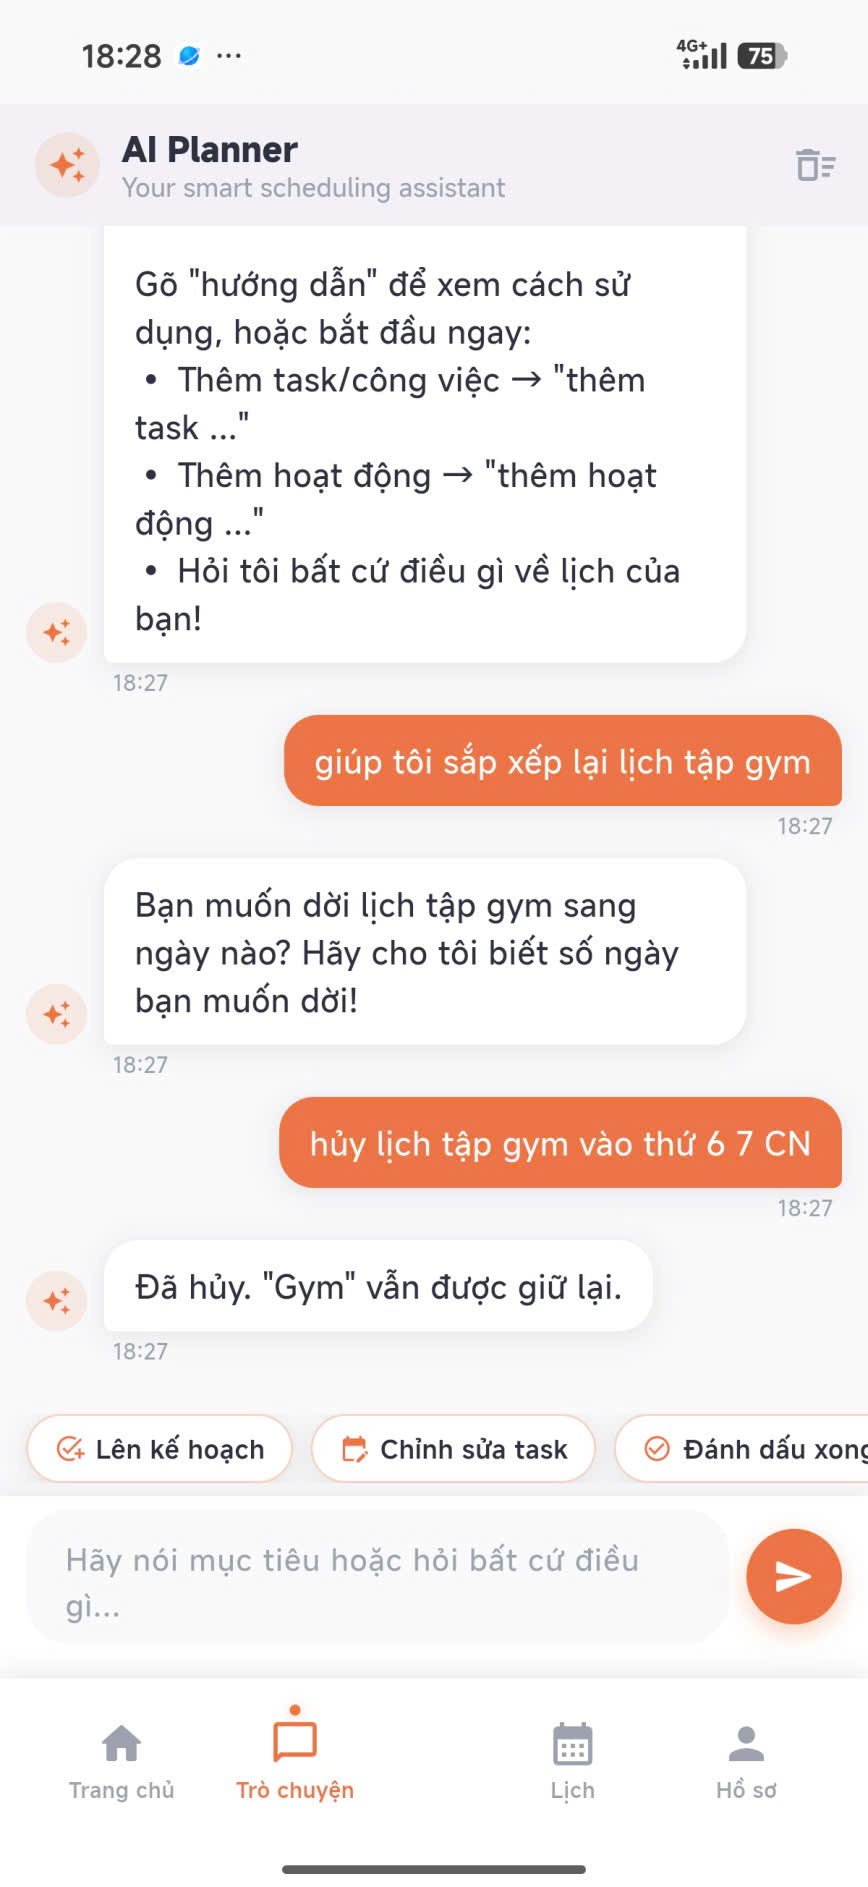
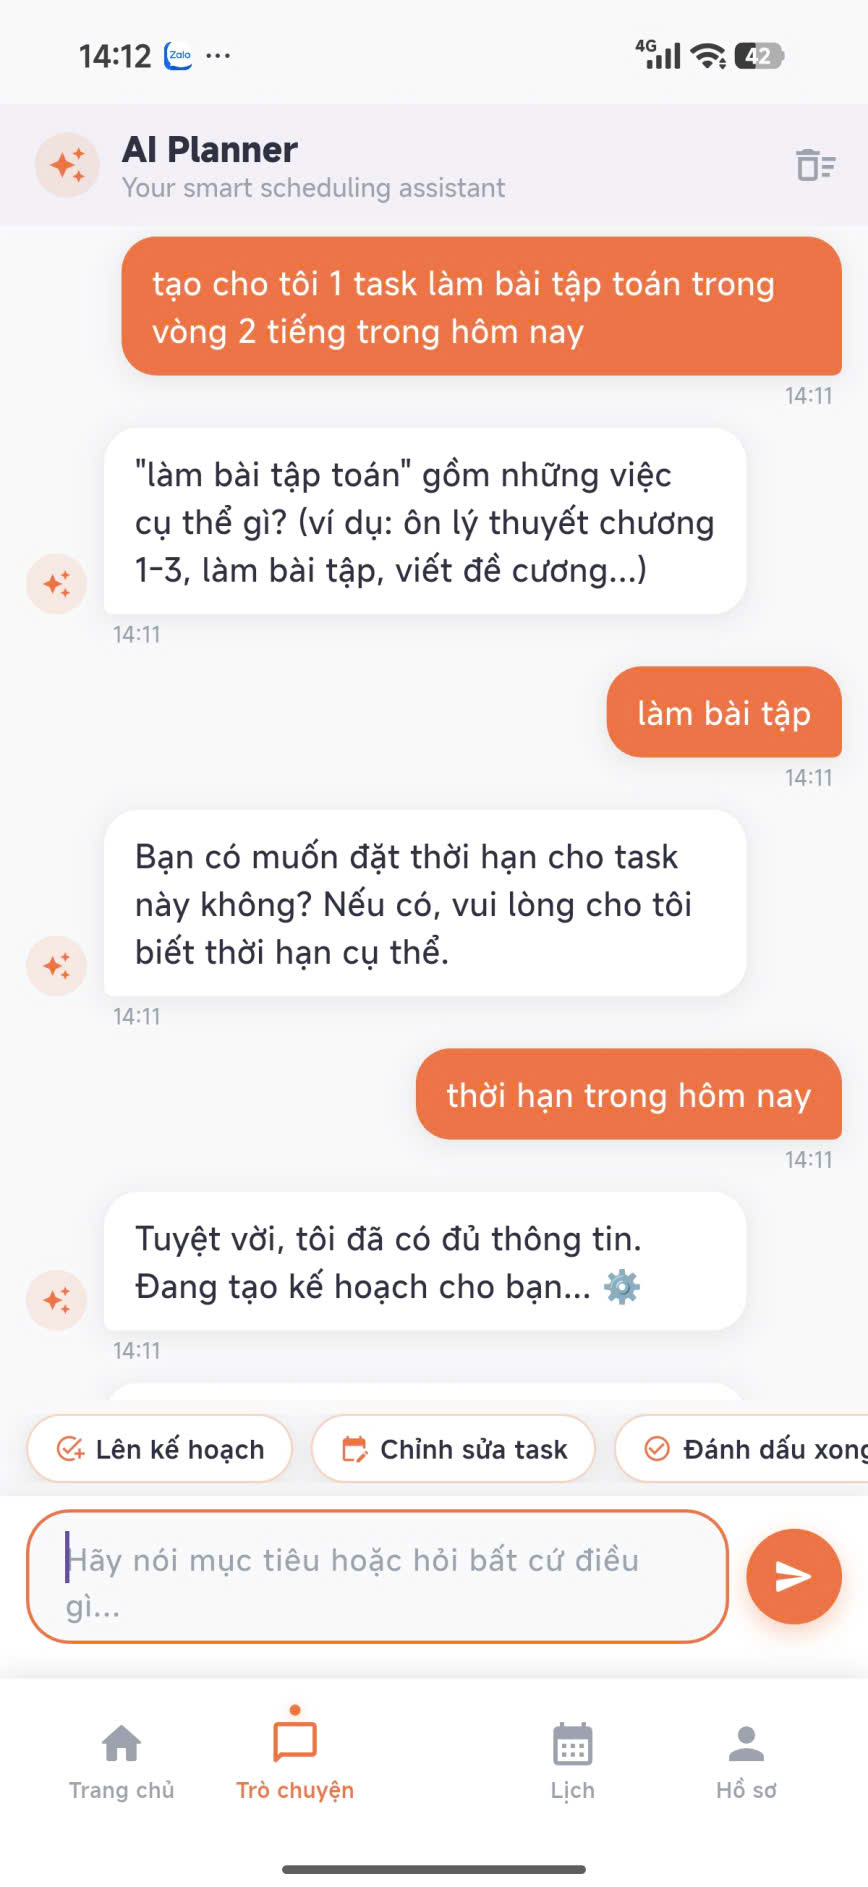
feat: wire download buttons to Google Drive APK link
- index.html: add shared APK_URL script wiring all 3 download
  buttons to a single Google Drive link (nav, hero, CTA)
- gitignore .env (contains API key + keystore passwords)
- update Play Store assets, payment screen, pubspec, privacy page

diff --git a/android/build/reports/problems/problems-report.html b/android/build/reports/problems/problems-report.html
@@ -650,7 +650,7 @@ code + .copy-button {
 <script type="text/javascript">
 function configurationCacheProblems() { return (
 // begin-report-data
-{"diagnostics":[{"locations":[{}],"problem":[{"text":"Executing Gradle on JVM versions 16 and lower has been deprecated."}],"severity":"WARNING","problemDetails":[{"text":"This will fail with an error in Gradle 9.0."}],"contextualLabel":"Executing Gradle on JVM versions 16 and lower has been deprecated.","documentationLink":"https://docs.gradle.org/8.14/userguide/upgrading_version_8.html#minimum_daemon_jvm_version","problemId":[{"name":"deprecation","displayName":"Deprecation"},{"name":"executing-gradle-on-jvm-versions-and-lower","displayName":"Executing Gradle on JVM versions 16 and lower has been deprecated."}],"solutions":[[{"text":"Use JVM 17 or greater to execute Gradle. Projects can continue to use older JVM versions via toolchains."}]]},{"problem":[{"text":"No variants exist that would match the request"}],"severity":"ERROR","contextualLabel":"Dependency requires at least JVM runtime version 11. This build uses a Java 8 JVM.","documentationLink":"https://docs.gradle.org/8.14/userguide/variant_model.html#sec:variant-select-errors","problemId":[{"name":"dependency-variant-resolution","displayName":"Variant resolution"},{"name":"no-compatible-variants","displayName":"No variants exist that would match the request"}]}],"problemsReport":{"totalProblemCount":2,"requestedTasks":"signingReport","documentationLink":"https://docs.gradle.org/8.14/userguide/reporting_problems.html","documentationLinkCaption":"Problem report","summaries":[]}}
+{"diagnostics":[{"locations":[{}],"problem":[{"text":"Properties should be assigned using the 'propName = value' syntax. Setting a property via the Gradle-generated 'propName value' or 'propName(value)' syntax in Groovy DSL has been deprecated."}],"severity":"WARNING","problemDetails":[{"text":"This is scheduled to be removed in Gradle 10.0."}],"contextualLabel":"Properties should be assigned using the 'propName = value' syntax. Setting a property via the Gradle-generated 'propName value' or 'propName(value)' syntax in Groovy DSL has been deprecated.","documentationLink":"https://docs.gradle.org/8.14/userguide/upgrading_version_8.html#groovy_space_assignment_syntax","problemId":[{"name":"deprecation","displayName":"Deprecation"},{"name":"properties-should-be-assigned-using-the-propname-value-syntax-setting-a-property-via-the-gradle-generated-propname-value-or-propname-value-syntax-in-groovy-dsl","displayName":"Properties should be assigned using the 'propName = value' syntax. Setting a property via the Gradle-generated 'propName value' or 'propName(value)' syntax in Groovy DSL has been deprecated."}],"solutions":[[{"text":"Use assignment ('group = <value>') instead."}]]},{"locations":[{}],"problem":[{"text":"Properties should be assigned using the 'propName = value' syntax. Setting a property via the Gradle-generated 'propName value' or 'propName(value)' syntax in Groovy DSL has been deprecated."}],"severity":"WARNING","problemDetails":[{"text":"This is scheduled to be removed in Gradle 10.0."}],"contextualLabel":"Properties should be assigned using the 'propName = value' syntax. Setting a property via the Gradle-generated 'propName value' or 'propName(value)' syntax in Groovy DSL has been deprecated.","documentationLink":"https://docs.gradle.org/8.14/userguide/upgrading_version_8.html#groovy_space_assignment_syntax","problemId":[{"name":"deprecation","displayName":"Deprecation"},{"name":"properties-should-be-assigned-using-the-propname-value-syntax-setting-a-property-via-the-gradle-generated-propname-value-or-propname-value-syntax-in-groovy-dsl","displayName":"Properties should be assigned using the 'propName = value' syntax. Setting a property via the Gradle-generated 'propName value' or 'propName(value)' syntax in Groovy DSL has been deprecated."}],"solutions":[[{"text":"Use assignment ('version = <value>') instead."}]]},{"locations":[{}],"problem":[{"text":"Properties should be assigned using the 'propName = value' syntax. Setting a property via the Gradle-generated 'propName value' or 'propName(value)' syntax in Groovy DSL has been deprecated."}],"severity":"WARNING","problemDetails":[{"text":"This is scheduled to be removed in Gradle 10.0."}],"contextualLabel":"Properties should be assigned using the 'propName = value' syntax. Setting a property via the Gradle-generated 'propName value' or 'propName(value)' syntax in Groovy DSL has been deprecated.","documentationLink":"https://docs.gradle.org/8.14/userguide/upgrading_version_8.html#groovy_space_assignment_syntax","problemId":[{"name":"deprecation","displayName":"Deprecation"},{"name":"properties-should-be-assigned-using-the-propname-value-syntax-setting-a-property-via-the-gradle-generated-propname-value-or-propname-value-syntax-in-groovy-dsl","displayName":"Properties should be assigned using the 'propName = value' syntax. Setting a property via the Gradle-generated 'propName value' or 'propName(value)' syntax in Groovy DSL has been deprecated."}],"solutions":[[{"text":"Use assignment ('namespace = <value>') instead."}]]},{"locations":[{}],"problem":[{"text":"Properties should be assigned using the 'propName = value' syntax. Setting a property via the Gradle-generated 'propName value' or 'propName(value)' syntax in Groovy DSL has been deprecated."}],"severity":"WARNING","problemDetails":[{"text":"This is scheduled to be removed in Gradle 10.0."}],"contextualLabel":"Properties should be assigned using the 'propName = value' syntax. Setting a property via the Gradle-generated 'propName value' or 'propName(value)' syntax in Groovy DSL has been deprecated.","documentationLink":"https://docs.gradle.org/8.14/userguide/upgrading_version_8.html#groovy_space_assignment_syntax","problemId":[{"name":"deprecation","displayName":"Deprecation"},{"name":"properties-should-be-assigned-using-the-propname-value-syntax-setting-a-property-via-the-gradle-generated-propname-value-or-propname-value-syntax-in-groovy-dsl","displayName":"Properties should be assigned using the 'propName = value' syntax. Setting a property via the Gradle-generated 'propName value' or 'propName(value)' syntax in Groovy DSL has been deprecated."}],"solutions":[[{"text":"Use assignment ('buildConfig = <value>') instead."}]]}],"problemsReport":{"totalProblemCount":4,"buildName":"android","requestedTasks":"","documentationLink":"https://docs.gradle.org/8.14/userguide/reporting_problems.html","documentationLinkCaption":"Problem report","summaries":[]}}
 // end-report-data
 );}
 </script>

diff --git a/index.html b/index.html
@@ -326,7 +326,7 @@
     <li><a href="#how">Cách dùng</a></li>
     <li><a href="#screens">Màn hình</a></li>
   </ul>
-  <button class="nav-cta">Tải ngay</button>
+  <button class="nav-cta download-link">Tải ngay</button>
 </nav>
 
 <!-- HERO -->
@@ -340,7 +340,7 @@
   <h1>Lên kế hoạch học tập<br>thông minh hơn với <span class="accent">AI</span></h1>
   <p>Zentro giúp sinh viên tự động sắp xếp lịch học, phát hiện xung đột thời gian và theo dõi hiệu suất — tất cả qua cuộc trò chuyện tự nhiên.</p>
   <div class="hero-btns">
-    <a href="#" class="btn-primary">Tải về Android</a>
+    <a href="#" class="btn-primary download-link">Tải về Android</a>
     <a href="#features" class="btn-secondary">Xem tính năng →</a>
   </div>
 
@@ -445,10 +445,18 @@
     </div>
 
     <div style="background:#fff;border-radius:14px;padding:0;overflow:hidden;border:1px solid #e5e7eb;transition:box-shadow .2s;cursor:pointer;display:flex;flex-direction:column" onmouseover="this.style.boxShadow='0 8px 20px rgba(0,0,0,.1)'" onmouseout="this.style.boxShadow='none'">
-      <img src="assets/z7929272622371_26d5e22f201ee541ebc4f7e52e4ca2c1.jpg" style="width:100%;height:auto;display:block;flex:1;object-fit:contain" alt="Chat Screen">
+      <img src="assets/1781940098759_7900403285318780619_g955343821756253994_c00fc4ae60f9bd80a717ff9d4cdc2b0c.jpg" style="width:100%;height:auto;display:block;flex:1;object-fit:contain" alt="Chat Screen">
       <div style="padding:1rem;border-top:1px solid #e5e7eb">
         <h4 style="font-weight:700;margin-bottom:.3rem">💬 Chat AI</h4>
         <p style="font-size:.8rem;color:var(--muted)">Quản lý lịch qua trò chuyện</p>
+      </div>
+    </div>
+
+    <div style="background:#fff;border-radius:14px;padding:0;overflow:hidden;border:1px solid #e5e7eb;transition:box-shadow .2s;cursor:pointer;display:flex;flex-direction:column" onmouseover="this.style.boxShadow='0 8px 20px rgba(0,0,0,.1)'" onmouseout="this.style.boxShadow='none'">
+      <img src="assets/1781939833913_7900403285318780619_g955343821756253994_dd82edc4ad67d0baf0d3cb6ca95373af.jpg" style="width:100%;height:auto;display:block;flex:1;object-fit:contain" alt="AI Recommendation Screen">
+      <div style="padding:1rem;border-top:1px solid #e5e7eb">
+        <h4 style="font-weight:700;margin-bottom:.3rem">🤖 Gợi ý AI</h4>
+        <p style="font-size:.8rem;color:var(--muted)">Kế hoạch được AI tạo tự động</p>
       </div>
     </div>
 
@@ -457,14 +465,6 @@
       <div style="padding:1rem;border-top:1px solid #e5e7eb">
         <h4 style="font-weight:700;margin-bottom:.3rem">📆 Lịch</h4>
         <p style="font-size:.8rem;color:var(--muted)">Timeline trực quan theo ngày</p>
-      </div>
-    </div>
-
-    <div style="background:#fff;border-radius:14px;padding:0;overflow:hidden;border:1px solid #e5e7eb;transition:box-shadow .2s;cursor:pointer;display:flex;flex-direction:column" onmouseover="this.style.boxShadow='0 8px 20px rgba(0,0,0,.1)'" onmouseout="this.style.boxShadow='none'">
-      <img src="assets/z7926686580489_9bcc23995b922c5aec2f05ac4134f425.jpg" style="width:100%;height:auto;display:block;flex:1;object-fit:contain" alt="Profile Screen">
-      <div style="padding:1rem;border-top:1px solid #e5e7eb">
-        <h4 style="font-weight:700;margin-bottom:.3rem">👤 Hồ sơ</h4>
-        <p style="font-size:.8rem;color:var(--muted)">Cài đặt & theo dõi thống kê</p>
       </div>
     </div>
   </div>
@@ -573,7 +573,7 @@
 <div class="cta-section">
   <h2>Sẵn sàng học tập<br>thông minh hơn?</h2>
   <p>Tải Zentro miễn phí và trải nghiệm sức mạnh của AI trong việc lên kế hoạch học tập.</p>
-  <a href="#" class="btn-white">Tải về ngay →</a>
+  <a href="#" class="btn-white download-link">Tải về ngay →</a>
 </div>
 
 <!-- FOOTER -->
@@ -582,6 +582,24 @@
     <a href="mailto:jamesnguyen.ed@gmail.com">Liên hệ</a>
   </p>
 </footer>
+
+<script>
+  // 👉 DÁN LINK GOOGLE DRIVE CHỨA FILE APK VÀO ĐÂY (chỉ cần sửa 1 dòng này):
+  const APK_URL = "https://drive.google.com/file/d/1iM-EHnwxhPt_XMDn0zpGbTTfKZZS3__d/view?usp=sharing";
+
+  document.querySelectorAll('.download-link').forEach(function (el) {
+    if (el.tagName === 'A') {
+      el.setAttribute('href', APK_URL);
+      el.setAttribute('target', '_blank');
+      el.setAttribute('rel', 'noopener');
+    } else {
+      el.style.cursor = 'pointer';
+      el.addEventListener('click', function () {
+        window.open(APK_URL, '_blank', 'noopener');
+      });
+    }
+  });
+</script>
 
 </body>
 </html>

diff --git a/lib/screens/payment_screen.dart b/lib/screens/payment_screen.dart
@@ -5,6 +5,11 @@ import '../services/payment_service.dart';
 import '../services/subscription_service.dart';
 import '../utils/constants.dart';
 
+// Build with --dart-define=PAYMENT_MODE=play_store for Play Store (hides QR payment)
+// Build without flag (default) for direct APK distribution (shows QR payment)
+const _paymentMode = String.fromEnvironment('PAYMENT_MODE', defaultValue: 'qr');
+const _isPlayStore = _paymentMode == 'play_store';
+
 class PaymentScreen extends StatefulWidget {
   const PaymentScreen({Key? key}) : super(key: key);
 
@@ -26,10 +31,12 @@ class _PaymentScreenState extends State<PaymentScreen> {
   @override
   void initState() {
     super.initState();
-    _createRequest(_plan);
-    _tierSub = _svc.watchTierUpgrade().listen((isPro) {
-      if (isPro && mounted && !_paid) _onPaymentConfirmed();
-    });
+    if (!_isPlayStore) {
+      _createRequest(_plan);
+      _tierSub = _svc.watchTierUpgrade().listen((isPro) {
+        if (isPro && mounted && !_paid) _onPaymentConfirmed();
+      });
+    }
   }
 
   Future<void> _createRequest(ProPlan plan) async {
@@ -103,7 +110,94 @@ class _PaymentScreenState extends State<PaymentScreen> {
           ),
         ),
       ),
-      body: _paid ? _buildSuccessView() : _buildPaymentView(),
+      body: _isPlayStore
+          ? _buildComingSoonView()
+          : (_paid ? _buildSuccessView() : _buildPaymentView()),
+    );
+  }
+
+  Widget _buildComingSoonView() {
+    return Center(
+      child: Padding(
+        padding: const EdgeInsets.all(32),
+        child: Column(
+          mainAxisAlignment: MainAxisAlignment.center,
+          children: [
+            Container(
+              width: 88,
+              height: 88,
+              decoration: BoxDecoration(
+                color: AppColors.primary.withValues(alpha: 0.1),
+                shape: BoxShape.circle,
+              ),
+              child: const Icon(
+                Icons.workspace_premium,
+                color: AppColors.primary,
+                size: 48,
+              ),
+            ),
+            const SizedBox(height: 24),
+            const Text(
+              'Sắp ra mắt',
+              style: TextStyle(
+                fontSize: 24,
+                fontWeight: FontWeight.w800,
+                color: AppColors.textPrimary,
+              ),
+            ),
+            const SizedBox(height: 12),
+            const Text(
+              'Tính năng nâng cấp Pro đang được phát triển và sẽ sớm ra mắt trong phiên bản tiếp theo.',
+              textAlign: TextAlign.center,
+              style: TextStyle(
+                fontSize: 14,
+                color: AppColors.textSecondary,
+                height: 1.6,
+              ),
+            ),
+            const SizedBox(height: 32),
+            _buildBenefit(Icons.chat_bubble_rounded, 'Chat với AI Agent không giới hạn'),
+            _buildBenefit(Icons.add_task, '100 lượt AI/ngày (Free: 15 lượt)'),
+            _buildBenefit(Icons.bolt, 'Phản hồi ưu tiên, tính năng mới sớm nhất'),
+            const SizedBox(height: 40),
+            SizedBox(
+              width: double.infinity,
+              child: FilledButton(
+                style: FilledButton.styleFrom(
+                  backgroundColor: AppColors.primary,
+                  padding: const EdgeInsets.symmetric(vertical: 14),
+                  shape: RoundedRectangleBorder(
+                    borderRadius: BorderRadius.circular(12),
+                  ),
+                ),
+                onPressed: () => Navigator.pop(context),
+                child: const Text(
+                  'Quay lại',
+                  style: TextStyle(fontSize: 15, fontWeight: FontWeight.w600),
+                ),
+              ),
+            ),
+          ],
+        ),
+      ),
+    );
+  }
+
+  Widget _buildBenefit(IconData icon, String text) {
+    return Padding(
+      padding: const EdgeInsets.only(bottom: 12),
+      child: Row(
+        children: [
+          Icon(icon, size: 20, color: AppColors.primary),
+          const SizedBox(width: 12),
+          Expanded(
+            child: Text(
+              text,
+              style: const TextStyle(fontSize: 14, color: AppColors.textPrimary),
+            ),
+          ),
+        ],
+      ),
     );
   }
 

diff --git a/privacy.html b/privacy.html
@@ -259,7 +259,7 @@
       <li><strong>Dữ liệu lịch học:</strong> Tên task, deadline, thời lượng, mức độ ưu tiên và lịch trình bạn tạo trong ứng dụng.</li>
       <li><strong>Nội dung chat:</strong> Tin nhắn bạn gửi cho AI trong tính năng Chat Planner để xử lý và tạo lịch.</li>
       <li><strong>Dữ liệu hiệu suất:</strong> Thời gian ước tính và thực tế hoàn thành task để cải thiện gợi ý AI.</li>
-      <li><strong>Thông tin thiết bị:</strong> Loại thiết bị, phiên bản hệ điều hành — thu thập tự động bởi Firebase Analytics.</li>
+      <li><strong>Thông tin thiết bị:</strong> Loại thiết bị và phiên bản hệ điều hành — thu thập tự động bởi Firebase Authentication trong quá trình đăng nhập.</li>
     </ul>
   </div>
 
@@ -326,8 +326,8 @@
     </div>
     <ul>
       <li><strong>Xem dữ liệu:</strong> Mọi task và lịch trình hiển thị trực tiếp trong ứng dụng.</li>
+      <li><strong>Xóa tài khoản trong ứng dụng:</strong> Vào <em>Hồ sơ → Xóa tài khoản</em> — tài khoản và toàn bộ dữ liệu Firestore sẽ bị xóa ngay lập tức.</li>
       <li><strong>Xóa dữ liệu cục bộ:</strong> Gỡ cài đặt ứng dụng sẽ xóa toàn bộ dữ liệu trên thiết bị.</li>
-      <li><strong>Xóa dữ liệu Firestore:</strong> Gửi email đến zentrosupportteam@gmail.com — chúng tôi xóa trong vòng 7 ngày làm việc.</li>
       <li><strong>Tắt thông báo:</strong> Vào Cài đặt hệ thống → Ứng dụng → Zentro → Thông báo.</li>
     </ul>
   </div>
@@ -364,7 +364,7 @@
     </div>
     <ul>
       <li><strong>Dữ liệu trên thiết bị:</strong> Lưu cho đến khi bạn gỡ cài đặt ứng dụng.</li>
-      <li><strong>Dữ liệu Firestore:</strong> Lưu cho đến khi bạn yêu cầu xóa tài khoản. Chúng tôi xóa trong vòng 7 ngày làm việc.</li>
+      <li><strong>Dữ liệu Firestore:</strong> Lưu cho đến khi bạn xóa tài khoản. Khi xóa tài khoản trong ứng dụng, dữ liệu được xóa ngay lập tức.</li>
       <li><strong>Nội dung chat gửi OpenAI:</strong> Không được lưu trữ lâu dài theo chính sách API của OpenAI.</li>
     </ul>
   </div>
@@ -375,7 +375,7 @@
       <div class="section-num">9</div>
       <h2>Dữ liệu trẻ em</h2>
     </div>
-    <p>Zentro không chủ động thu thập dữ liệu từ trẻ em dưới 13 tuổi. Nếu bạn phát hiện trẻ em dưới 13 tuổi đã cung cấp thông tin cá nhân, vui lòng liên hệ ngay để chúng tôi xóa dữ liệu.</p>
+    <p>Zentro yêu cầu đăng nhập bằng tài khoản Google và không dành cho trẻ em dưới 13 tuổi. Chúng tôi không chủ động thu thập dữ liệu từ người dùng dưới độ tuổi này.</p>
   </div>
 
   <!-- 10 -->
@@ -390,9 +390,9 @@
   <!-- CONTACT -->
   <div class="contact-box">
     <h2>Liên hệ về quyền riêng tư</h2>
-    <p>Có câu hỏi hoặc yêu cầu xóa dữ liệu? Đội ngũ Zentro luôn sẵn sàng hỗ trợ bạn.</p>
+    <p>Có câu hỏi về chính sách này? Đội ngũ Zentro luôn sẵn sàng hỗ trợ bạn.</p>
     <a href="mailto:zentrosupportteam@gmail.com">✉ zentrosupportteam@gmail.com</a>
-    <p class="response-time">Phản hồi trong vòng 7 ngày làm việc</p>
+    <p class="response-time">Phản hồi các câu hỏi trong vòng 7 ngày làm việc</p>
   </div>
 
 </div>
